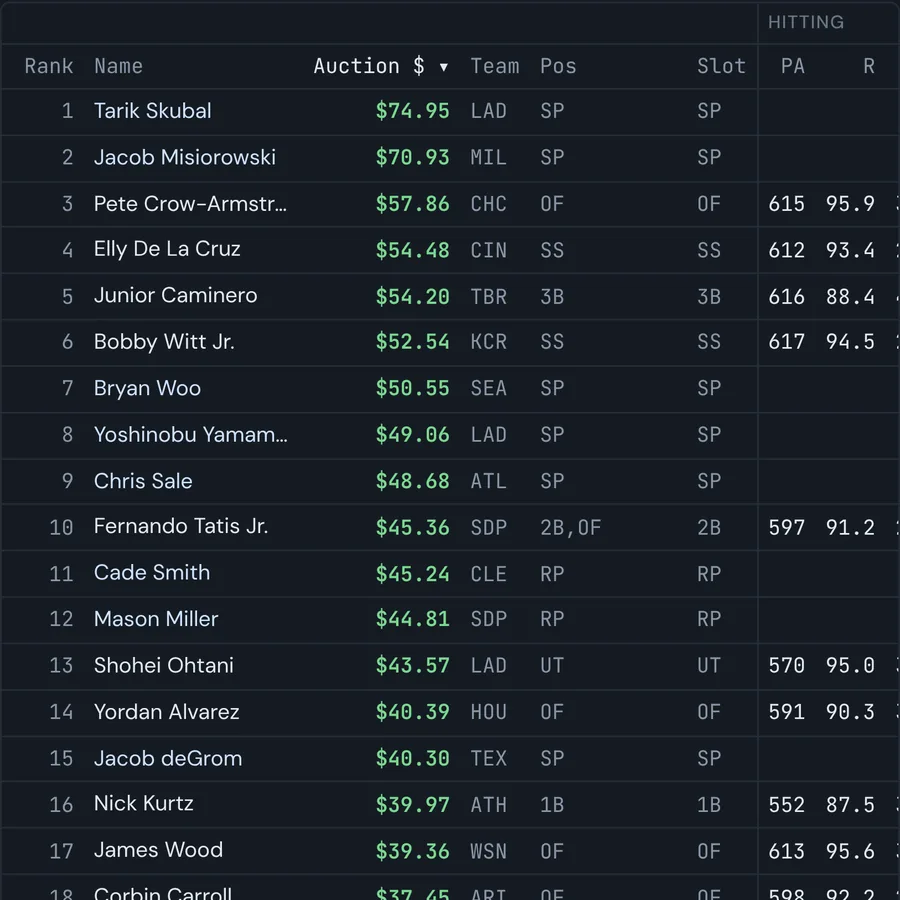
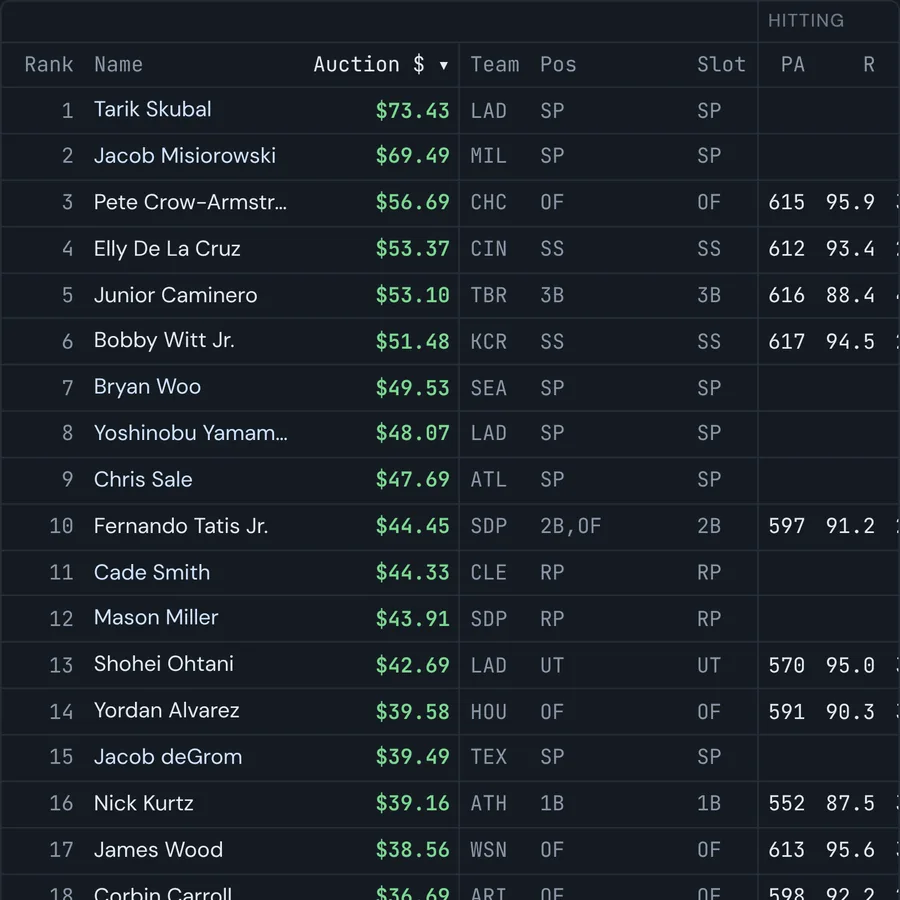
Auction calculator: a minimized bench's min bids still come out of the budget
Minimize bench value left the bench out of the priced pool and also out
of the min bids reserved from the budget, so the lineup players split the
bench's dollars too. Every bench spot is still drafted, at the min bid,
so its min bids now come out first either way: with the bench minimized,
the priced lineup players cost teams × (budget − bench × min bid). The
summary says so, the budget check counts the bench at the min bid, and
invariants.mjs (90 leagues) checks the new total. The homepage tile is
re-captured (Skubal $73.43).

Claude-Session: https://claude.ai/code/session_01AWedwNEJvEtBDjmJaVtJCN

diff --git a/auction-calculator/app.js b/auction-calculator/app.js
@@ -1,7 +1,7 @@
 // The MLB Auction Calculator page: settings in the sidebar, the priced player table
 // beside it. The model is calc.js; the default projections are two CSVs in the bucket.
 
-import * as C from "./calc.js?v=9";
+import * as C from "./calc.js?v=10";
 
 const $ = (id) => document.getElementById(id);
 const esc = (s) => String(s).replace(/[&<>"]/g, (c) => ({ "&": "&amp;", "<": "&lt;", ">": "&gt;", '"': "&quot;" }[c]));
@@ -235,8 +235,11 @@ function readSettings() {
     marketHitterShare: $("market").value === "" ? null : n("market") / 100,
     hitterCats: cats.h, pitcherCats: cats.p, hitterPoints: points.h, pitcherPoints: points.p,
   };
-  const minBudget = (s.minBid + 1) * (s.hitters + s.pitchers + (s.minimizeBench ? 0 : s.bench));
-  if (s.budget < minBudget) return { error: `Team budget must be at least $${minBudget}: one dollar over the min bid for every roster spot.` };
+  // one dollar over the min bid for every priced spot, and the min bid for a minimized bench
+  const minBudget = (s.minBid + 1) * (s.hitters + s.pitchers + (s.minimizeBench ? 0 : s.bench)) + (s.minimizeBench ? s.minBid * s.bench : 0);
+  if (s.budget < minBudget) {
+    return { error: `Team budget must be at least $${minBudget}: one dollar over the min bid for every ${s.minimizeBench ? "lineup spot, and the min bid for every bench spot" : "roster spot"}.` };
+  }
   return s;
 }
 
@@ -457,7 +460,8 @@ function render() {
   const spent = drafted.reduce((a, p) => a + p.value, 0);
   const spots = s.hitters + s.pitchers + (s.minimizeBench ? 0 : s.bench);
   $("summary").innerHTML = `<b>${int(result.players.length)}</b> players priced · <b>${int(drafted.length)}</b> drafted at $${s.minBid}+ `
-    + `(${s.teams} teams × ${spots} ${s.minimizeBench ? "lineup" : "roster"} spots) for <b>$${int(Math.round(spent))}</b> (${s.teams} × $${int(s.budget)})`
+    + `(${s.teams} teams × ${spots} ${s.minimizeBench ? "lineup" : "roster"} spots) for <b>$${int(Math.round(spent))}</b> (${s.teams} × $${int(s.budget)}`
+    + (s.minimizeBench && s.bench ? `, less ${s.teams} × ${s.bench} bench spots at $${s.minBid})` : ")")
     + ` · values split <b>${Math.round(100 * result.split.hitters)}/${Math.round(100 * result.split.pitchers)}</b> hitters/pitchers`
     + (result.market !== null ? `, bids ${Math.round(100 * result.market)}/${Math.round(100 - 100 * result.market)}` : "")
     + ` · $${result.perSGP.toFixed(2)} per ${s.style === "Points" ? "point" : "SGP"}`

diff --git a/auction-calculator/calc.js b/auction-calculator/calc.js
@@ -726,8 +726,9 @@ function draftPool(value, posStrings, caps, types, benchSlots) {
  *   phi, ptCV (noise where the projections have no percentiles), fillPT, specialists,
  *   hitterCats, pitcherCats (Categories), hitterPoints, pitcherPoints ([[cat, pts]], Points)
  * Exactly the players on legal rosters (lineups, plus the bench unless it's minimized) are
- * worth the min bid or more, and they add up to the league's budget; one $/SGP across
- * hitters and pitchers, so the values set the split.
+ * worth the min bid or more, and they add up to the league's budget (less a minimized bench's
+ * min bids, which it's drafted at); one $/SGP across hitters and pitchers, so the values set
+ * the split.
  * Returns { players, hitterCols, pitcherCols, positions, valueCols, weights, split,
  * perSGP, iterations, converged }, players sorted by value.
  */
@@ -771,11 +772,13 @@ export function auctionValues(H, P, s) {
 
   // Task 11: dollars. The drafted players fill every team's legal roster (lineups, and half the
   // bench each side unless it's minimized); each side's last one goes for the min bid, and the
-  // dollars beyond the min bids go out at one rate per SGP above him, whichever side he's on
+  // dollars beyond the min bids go out at one rate per SGP above him, whichever side he's on.
+  // Every bench spot's min bid comes out of the budget either way: a minimized bench is still
+  // drafted, at the min bid, just not priced
   const benchH = Math.floor((s.teams * bench) / 2);
   const hSlot = draftPool(h.sgpar, hPos, hCaps, SLOT_TYPES, benchH);
   const pSlot = draftPool(p.sgpar, pPos, pCaps, PITCHER_SLOT_TYPES, s.teams * bench - benchH);
-  const spare = s.teams * s.budget - s.teams * (hitters + pitchers + bench) * s.minBid;
+  const spare = s.teams * s.budget - s.teams * (hitters + pitchers + s.bench) * s.minBid;
   const baseOf = (v, slot) => Math.min(...v.filter((_, i) => slot[i] !== null));
   const hBase = baseOf(h.sgpar, hSlot), pBase = baseOf(p.sgpar, pSlot);
   const over = (v, slot, base) => v.reduce((a, x, i) => (slot[i] !== null ? a + x - base : a), 0);

diff --git a/auction-calculator/index.html b/auction-calculator/index.html
@@ -167,7 +167,7 @@ table.values{border-collapse:separate; border-spacing:0; width:100%; font-family
       <div class="pair">
         <label><b>Bench spots</b><input id="bench" type="number" min="0" max="20" step="1" value="5" required></label>
       </div>
-      <label class="check"><input id="min_bench" type="checkbox" checked><span>Minimize bench value<small>Leaves bench players out of replacement level and the drafted pool</small></span></label>
+      <label class="check"><input id="min_bench" type="checkbox" checked><span>Minimize bench value<small>Leaves bench players out of replacement level and the priced pool; their min bids still come out of the budget</small></span></label>
 
       <h3>League settings</h3>
       <div class="pair">
@@ -245,6 +245,6 @@ table.values{border-collapse:separate; border-spacing:0; width:100%; font-family
     </section>
   </div>
 </main>
-<script type="module" src="app.js?v=11"></script>
+<script type="module" src="app.js?v=12"></script>
 </body>
 </html>

diff --git a/index.html b/index.html
@@ -162,7 +162,7 @@
 								</article>
 									<article class="style4">
 									<span class="image">
-										<img src="images/tile-auction-calculator.webp?v=3" srcset="images/tile-auction-calculator-720.webp?v=3 720w, images/tile-auction-calculator.webp?v=3 900w" sizes="(max-width: 480px) 100vw, (max-width: 980px) 50vw, 380px" width="900" height="900" alt="SGP auction values for a 12-team Yahoo-format 5x5 league, Tarik Skubal first at $74.95" />
+										<img src="images/tile-auction-calculator.webp?v=4" srcset="images/tile-auction-calculator-720.webp?v=4 720w, images/tile-auction-calculator.webp?v=4 900w" sizes="(max-width: 480px) 100vw, (max-width: 980px) 50vw, 380px" width="900" height="900" alt="SGP auction values for a 12-team Yahoo-format 5x5 league, Tarik Skubal first at $73.43" />
 									</span>
 									<a href="/auction-calculator/">
 										<h2>MLB Auction Calculator</h2>

diff --git a/README.md b/README.md
@@ -860,7 +860,8 @@ way:
 - **Drafted players and dollars.** The script prices every player at min bid + value × dollars per
   value, then scales every positive value to the budget, so neither the number of players at $1+
   nor what they cost matches the league. The page drafts exactly the players who fill every team's
-  legal roster: exactly `teams × roster spots` come out at $1+, for exactly `teams × budget`.
+  legal roster: exactly `teams × roster spots` come out at $1+, for exactly `teams × budget` (less
+  a minimized bench's min bids).
 - **Replacement by lineup slot.** The script prices catchers against catchers, every other hitter
   in one pool and every pitcher in another. The page sets a replacement level for every position,
   SP and RP included, from the league's best lineups, so scarcity comes from the projections and
@@ -919,14 +920,17 @@ AVG 14.0 hits; W 4.2, SV 9.8, K 58, ERA 10.4 earned runs, WHIP 16.2 walks + hits
 **Dollars.** The drafted players are the ones that fill every team's legal roster: each side's
 lineup slots, plus half the bench each (as BN slots anyone fits) unless **Minimize bench value** is
 on, filled for the most SGP above replacement. That's `teams × (hitters + pitchers + bench)`
-players, or `teams × (hitters + pitchers)` with the bench minimized. Every drafted player gets the
-min bid, the last drafted on each side exactly that, and the rest of the budget goes out at one
-price per SGP above him, on both sides; so exactly the drafted players are at the min bid or more,
-together they cost `teams × budget`, and the hitter/pitcher split is the values' own. A player no
+players, or `teams × (hitters + pitchers)` with the bench minimized. Every roster spot's min bid
+comes out of the budget first, bench included: a minimized bench is still drafted, at the min bid,
+just not priced. Every drafted player gets the min bid, the last drafted on each side exactly that,
+and the rest of the budget goes out at one price per SGP above him, on both sides; so exactly the
+drafted players are at the min bid or more, together they cost `teams × budget` (less
+`teams × bench × min bid` for a minimized bench), and the hitter/pitcher split is the values' own. A player no
 legal roster has room for (a 13th catcher when nothing else takes him, say) stays under the min
 bid. A **Bid hitter share** scales each side's dollars above the min bid to that share (bids only;
-the count and the total stay). On the 2027 projections the Yahoo format splits 50/50 at $10.64 per
-SGP; without the playing time fill, 60/40 at $6.43. The fill moves value to part-timers with good
+the count and the total stay). On the 2027 projections the Yahoo format (bench minimized) prices its
+216 lineup players for $3,060 (12 × $260, less 60 bench spots at $1), split 50/50 at $10.42 per SGP;
+without the playing time fill, 60/40 at $6.30. The fill moves value to part-timers with good
 rates (Byron Buxton, Luis Robert Jr., closers) and away from full-time players near replacement
 rates (Bo Bichette, Luis Arraez, back-end starters).
 
@@ -983,7 +987,7 @@ league standings.
 | `tools/auction_calculator/compare.mjs` | scores the same CSVs and settings with `calc.js` and checks every player's start value against the script's |
 | `tools/auction_calculator/sgp_dump.mjs`, `sgp_check.py` | dumps one league's last pass and recomputes it independently in Python (numpy, scipy): pool rates and rate-stat counts from the raw CSVs, tier variance, noise, G, SGP, the specialist curve with the procedure's reference code, and the drafted pool against `linear_sum_assignment` |
 | `tools/auction_calculator/sgp_checks.mjs` | the procedure's own validation: the 2√π / (N − 1) constant against simulated standings (within 2%), the tier variance against 3000 simulated snake drafts with ADP noise (within 5%), and a report of players who moved more than 20 places against the z-scores, with why |
-| `tools/auction_calculator/invariants.mjs` | over 90 leagues (every format; bench on and off, Points, roto / H2H / all-play, AL/NL-only, min bids, spans, fill and specialists off, a bid share, other categories), checks that exactly the roster spots are drafted at the min bid or more, on legal rosters, for exactly the budget, that every value breakdown adds up, that bids keep both, and that the values settled |
+| `tools/auction_calculator/invariants.mjs` | over 90 leagues (every format; bench on and off, Points, roto / H2H / all-play, AL/NL-only, min bids, spans, fill and specialists off, a bid share, other categories), checks that exactly the roster spots are drafted at the min bid or more, on legal rosters, for exactly the budget (less a minimized bench's min bids), that every value breakdown adds up, that bids keep both, and that the values settled |
 
 To check the model after a change (pandas, Pillow, numpy and scipy for the Python side):
 
